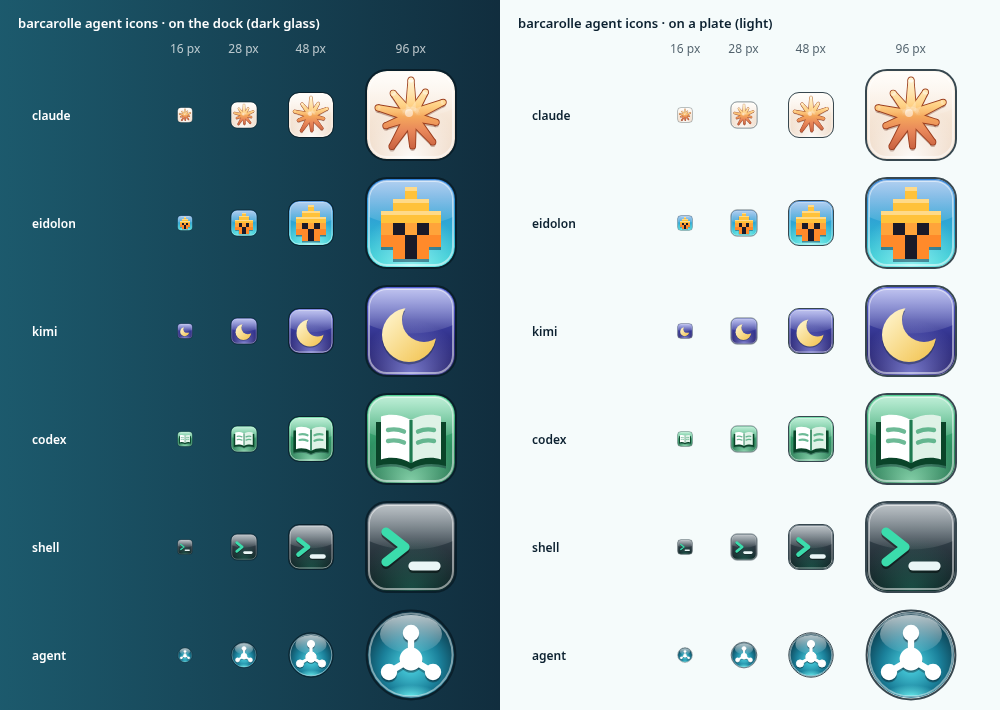
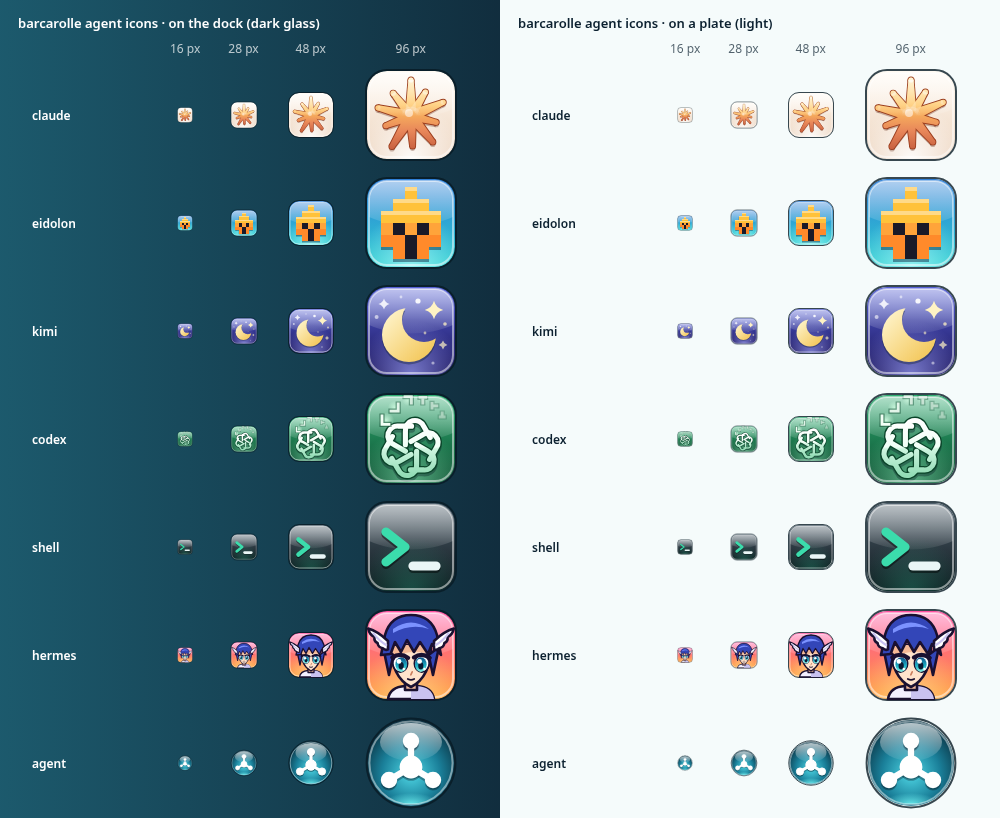
barcarolle: the agent dock becomes a tray flyout; kimi gets a starfield, codex the blossom with enchanting runes, hermes a winged anime messenger

diff --git a/song/songbook/barcarolle/design/mock.html b/song/songbook/barcarolle/design/mock.html
@@ -177,17 +177,11 @@ svg.i { display: block; }
 .s-done::after { content: ""; position: absolute; left: 4px; top: 2px; width: 3px; height: 6px; border: solid var(--ink); border-width: 0 1.5px 1.5px 0; transform: rotate(45deg); }
 .s-awaiting::after { content: ""; position: absolute; left: 3.5px; top: 3px; width: 1.5px; height: 6px; background: var(--ink); box-shadow: 3px 0 0 var(--ink); }
 
-/* ---------- sidebar dock ---------- */
-.dock { left: 1568px; top: 0; width: 352px; height: 1040px;
-  background: var(--streaks), linear-gradient(90deg, rgba(42,163,184,.30), rgba(12,33,48,.50));
-  -webkit-backdrop-filter: blur(12px) saturate(1.3); backdrop-filter: blur(12px) saturate(1.3);
-  box-shadow: inset 1px 0 0 rgba(255,255,255,.35), -1px 0 0 rgba(12,33,48,.6); }
-.dock .hdr { left: 12px; top: 12px; width: 328px; height: 34px; border-radius: 4px; background: rgba(12,33,48,.86); display: flex; align-items: center; padding: 0 10px; font: 600 13px var(--ui); gap: 8px;
-  box-shadow: inset 0 1px 0 rgba(255,255,255,.22), 0 0 0 1px rgba(12,33,48,.85); }
-.dock .hdr .act { margin-left: auto; display: flex; gap: 10px; opacity: .9; font-weight: 400; }
-.card { left: 12px; top: 56px; width: 328px; border-radius: 6px; overflow: hidden; box-shadow: 0 0 0 1px rgba(12,33,48,.6), 0 1px 3px rgba(0,0,0,.04); }
-.card .band { height: 20px; background: linear-gradient(180deg, rgba(255,255,255,.35), rgba(255,255,255,0) 60%), var(--frame); color: #fff; font: 600 11px/20px var(--ui); padding: 0 10px; text-shadow: 0 1px 1px rgba(0,0,0,.45); }
-.card .plate { border: 0; border-radius: 0; padding: 4px 0 6px; }
+/* ---------- agent flyout ---------- */
+.agentfly { left: 1564px; bottom: 46px; width: 352px; }
+.agentfly .hd { height: 26px; padding: 0 8px; display: flex; align-items: center; gap: 6px; font-weight: 600; border-radius: 2px 2px 0 0; }
+.agentfly .hd .act { margin-left: auto; display: flex; gap: 10px; opacity: .9; font-weight: 400; }
+.agentfly .plate { border-radius: 0 0 2px 2px; padding: 2px 0 4px; }
 .grp { height: 26px; display: flex; align-items: center; gap: 8px; padding: 0 8px; margin-top: 2px; cursor: pointer; }
 .grp:hover { background: rgba(37,187,207,.10); }
 .grp b { font-weight: 600; }
@@ -214,13 +208,13 @@ svg.i { display: block; }
 .legend span { display: inline-flex; align-items: center; gap: 5px; }
 
 /* ---------- flyouts ---------- */
-.ricemenu { left: 1455px; bottom: 46px; width: 248px; }
+.ricemenu { left: 1303px; bottom: 46px; width: 248px; }
 .ricemenu .hd { height: 26px; padding: 0 8px; display: flex; align-items: center; font-weight: 600; border-radius: 2px 2px 0 0; }
 .ricemenu .plate { border-radius: 0 0 2px 2px; padding: 2px 0 0; }
 .ricemenu .check { width: 12px; text-align: center; color: var(--ink); font-weight: 700; }
 .ricemenu .foot { margin-top: 4px; padding: 5px 8px; background: rgba(37,187,207,.10); font-size: 11px; color: var(--ink-2); border-top: 1px solid rgba(12,33,48,.15); }
 .ricemenu .tag { margin-left: auto; font-size: 10px; color: var(--ink-2); }
-.vol { left: 1771px; bottom: 46px; width: 84px; }
+.vol { left: 1207px; bottom: 46px; width: 84px; }
 .vol .plate { height: 288px; display: flex; flex-direction: column; align-items: center; padding-top: 8px; }
 .vol .dev { font-size: 11px; color: var(--ink); width: 70px; text-align: center; white-space: nowrap; overflow: hidden; text-overflow: ellipsis; border-bottom: 1px solid rgba(12,33,48,.15); padding-bottom: 6px; }
 .vol .slider { position: relative; width: 6px; height: 150px; margin: 14px 0 8px; border-radius: 3px; background: rgba(12,33,48,.20); box-shadow: inset 0 0 0 1px rgba(12,33,48,.25); }
@@ -233,20 +227,20 @@ svg.i { display: block; }
 .vol .foot a:hover { text-decoration: underline; }
 
 /* ---------- balloon ---------- */
-.balloon { left: 1572px; top: 528px; width: 340px; padding: 10px 12px 12px; border-radius: 6px; color: var(--ink);
+.balloon { left: 1571px; top: 404px; width: 340px; padding: 10px 12px 12px; border-radius: 6px; color: var(--ink);
   background: linear-gradient(180deg, #f5fbfb, #e5f5f7); border: 1px solid var(--ink-3);
   box-shadow: 0 1px 2px rgba(0,0,0,.10), 0 3px 8px rgba(0,0,0,.06), 0 8px 18px rgba(0,0,0,.03); }
-.balloon .tail { position: absolute; left: 185px; bottom: -10px; width: 16px; height: 10px; }
+.balloon .tail { position: absolute; left: 162px; bottom: -10px; width: 16px; height: 10px; }
 .balloon .t { display: flex; align-items: center; gap: 8px; font: 600 13px var(--ui); }
 .balloon .x { margin-left: auto; width: 16px; height: 16px; display: grid; place-items: center; color: var(--ink-2); font-size: 13px; cursor: pointer; }
 .balloon .m { font-size: 11px; color: var(--ink-2); margin: 1px 0 6px 24px; }
 .balloon .b { font-size: 12px; margin-left: 24px; }
 .balloon .b code { font: 11px var(--mono); background: rgba(12,33,48,.06); padding: 0 3px; border-radius: 2px; }
 .balloon .acts { margin: 10px 0 0 24px; display: flex; gap: 8px; }
-.leader { left: 1765px; top: 650px; width: 0; height: 392px; border-left: 1px dashed rgba(255,255,255,.55); }
+.leader { left: 1741px; top: 520px; width: 0; height: 522px; border-left: 1px dashed rgba(255,255,255,.55); }
 
 /* ---------- gadget ---------- */
-.gadget { left: 1350px; top: 24px; width: 196px; height: 150px; }
+.gadget { left: 1700px; top: 24px; width: 196px; height: 150px; }
 
 /* ---------- lock panel + notes ---------- */
 .lockcard { left: 462px; top: 40px; width: 864px; }
@@ -338,19 +332,6 @@ svg.i { display: block; }
     </g>
   </svg>
 
-  <!-- sidebar: terminal / agent dock -->
-  <div class="abs dock" id="dock">
-    <div class="abs hdr">
-      <svg width="16" height="16" viewBox="0 0 16 16"><rect x="1.5" y="4.5" width="10" height="9" rx="1.5" fill="none" stroke="#fff" stroke-opacity=".7"/><rect x="4.5" y="1.5" width="10" height="9" rx="1.5" fill="#0c2130" stroke="#fff"/><path d="M6.5 4.5l2 1.5-2 1.5" fill="none" stroke="#3bdcac" stroke-width="1.3"/></svg>
-      Sessions · 2 working · 1 awaiting
-      <span class="act"><span title="recheck">↻</span><span title="close">×</span></span>
-    </div>
-    <div class="abs card">
-      <div class="band">Agents by workspace</div>
-      <div class="plate" id="sessions"></div>
-    </div>
-  </div>
-
   <!-- Start menu -->
   <div class="abs start rim" id="start">
     <div class="abs tile"><div>
@@ -420,6 +401,16 @@ svg.i { display: block; }
 
   <!-- balloon -->
   <div class="abs leader"></div>
+
+  <!-- agent flyout, over the agents tray button -->
+  <div class="abs agentfly rim" id="dock">
+    <div class="hd deep">
+      <svg width="16" height="16" viewBox="0 0 16 16"><rect x="1.5" y="4.5" width="10" height="9" rx="1.5" fill="none" stroke="#fff" stroke-opacity=".7"/><rect x="4.5" y="1.5" width="10" height="9" rx="1.5" fill="#0c2130" stroke="#fff"/><path d="M6.5 4.5l2 1.5-2 1.5" fill="none" stroke="#3bdcac" stroke-width="1.3"/></svg>
+      Sessions · 2 working · 1 awaiting
+      <span class="act"><span title="recheck">↻</span></span>
+    </div>
+    <div class="plate" id="sessions"></div>
+  </div>
   <div class="abs balloon" id="balloon">
     <svg class="tail" viewBox="0 0 16 10"><path d="M0 0h16L8 10z" fill="#e5f5f7"/><path d="M0 0L8 10 16 0" fill="none" stroke="rgba(12,33,48,.55)"/></svg>
     <div class="t">
@@ -528,8 +519,8 @@ document.getElementById("programs").innerHTML = programs.map((p, i) => p === nul
 
 const groups = [
   { ws: 3, wash: "working", apps: ["code", "term", "files"], label: "Workspace 3", mon: "DP-1", rows: [
-    ["working", "claude · barcarolle board", "Edit · mock.html", "~/worktrees/dxflake-barcarolle", 54],
-    ["working", "claude · subagent: contrast pass", "Bash · pillow", "~/aoide", 22, true],
+    ["working", "hermes · barcarolle board", "Edit · mock.html", "~/worktrees/dxflake-barcarolle", 54],
+    ["working", "hermes · subagent: contrast pass", "Bash · pillow", "~/aoide", 22, true],
     ["done", "codex · livery lint", "finished 4m ago", "~/aoide", 31] ] },
   { ws: 7, wash: "awaiting", apps: ["term", "web"], label: "Workspace 7", mon: "DP-1", rows: [
     ["awaiting", "claude · flake check", "asking · Bash", "~/dxflake", 72, false, "y"] ] },
@@ -537,7 +528,7 @@ const groups = [
     ["idle", "kimi · notes sweep", "idle 12m", "~/Magi", 18],
     ["stopped", "eidolon · harnox bump", "stopped · exit 0", "~/harnox", 40] ] },
 ];
-const kinds = ["claude", "eidolon", "kimi", "codex", "shell"];
+const kinds = ["claude", "eidolon", "kimi", "codex", "shell", "hermes"];
 const agentIcon = (name, state, dim) => {
   const k = name.split(" · ")[0];
   return `<span class="ico"${dim ? ' style="opacity:.6"' : ""}><img src="../icons/agents/${kinds.includes(k) ? k : "agent"}.svg" width="28" height="28" alt="${k}"><span class="st s-${state}"></span></span>`;

diff --git a/song/songbook/barcarolle/design/intent.md b/song/songbook/barcarolle/design/intent.md
@@ -1,9 +1,9 @@
 # barcarolle — intent
 
 Windows 7 Aero, rebuilt as an AoideOS rice: a glass superbar along the bottom,
-the Start orb and its two-column menu, white-plate flyouts and balloons, a
-Vista-lineage sidebar, and a CPU-meter gadget, all over a teal Frutiger Aero
-wallpaper. The one structural change from Windows 7: the grouped taskbar
+the Start orb and its two-column menu, white-plate flyouts and balloons
+(the agent sessions among them), and a CPU-meter gadget, all over a teal
+Frutiger Aero wallpaper. The one structural change from Windows 7: the grouped taskbar
 buttons are **Hyprland workspaces**, not applications.
 
 The board is `mock.html` (rendered to `mock.png`). It holds every summoned
@@ -16,7 +16,7 @@ Glass is a frame, content is a plate, light comes from above.
 
 - **Deep glass** (`bar.bg`) is the only glass that carries text, always white.
 - **Colorization** (`window.border`) tints every frame — Start rim, flyout
-  rims, peek frame, sidebar column, active window border — and never carries
+  rims, peek frame, active window border — and never carries
   text.
 - **Plates** (`notif.bg` at 0.97, 1px ink-0.55 border) carry every list,
   grid, paragraph and field; ink text on them.
@@ -28,17 +28,17 @@ Glass is a frame, content is a plate, light comes from above.
 ## Layout (DP-1, 1920×1080)
 
 ```
-┌───────────────────────────────────────────────────────────────┬──────────────┐
-│                                           [CPU/RAM gadget]    │ Sidebar      │
-│                                                               │  Sessions    │
-│                                                               │  by workspace│
-│ ┌Start──────────┐                                             │  + New term  │
-│ │ pinned │ name  │      ┌Peek ws7┐            ┌RICE menu┐ ┌balloon────────┐ │
-│ │ recent │ places│      │ rows   │            │ songs   │ │ approve/deny  │ │
-│ │ All ▸  │       │      └────────┘            │ drafts  │ └──────┬────────┘ │
-│ │ search │ Lock ▸│                            │         │  ┊  ┌vol┐         │
-├─┴───────┴───────┴──────────────────────────────────────────────────────────────┤
-│◉ [1][2][3][4][5][6][7][8] ┆ mag scr +              Stage▾ ^ ⧉ ⚑ ▭ ◁)) 3:42 ▐│
+┌────────────────────────────────────────────────────────────────────────────────┐
+│                                                         [CPU/RAM gadget]       │
+│                                                                                │
+│                                                         ┌balloon────────────┐  │
+│ ┌Start──────────┐                                       │ approve/deny      │  │
+│ │ pinned │ name  │                                      └──────┬────────────┘  │
+│ │ recent │ places│                  ┌vol┐ ┌RICE menu┐ ┌Agents──┊────────────┐  │
+│ │ All ▸  │       │   ┌Peek ws7┐     │   │ │ songs   │ │ sessions by ws      │  │
+│ │ search │ Lock ▸│   │ rows   │     │   │ │ drafts  │ │ + New terminal      │  │
+├─┴───────┴───────┴──────────────────────────────────────────────┊───────────────┤
+│◉ [1][2][3][4][5][6][7][8] ┆ mag scr +                 Stage▾ ^ ⧉ ⚑ ▭ ◁)) 3:42 ▐│
 └────────────────────────────────────────────────────────────────────────────────┘
 ```
 
@@ -59,11 +59,14 @@ Glass is a frame, content is a plate, light comes from above.
   protruding above the frame, the name, places, Terminal, Settings; the power
   split is **Lock** with a ▸ for Switch user / Log off / Sleep / Hibernate /
   Restart / Shut down.
-- **Sidebar dock** (right, 352px, summoned): header chip with counts, one
-  gadget card grouping sessions by workspace (mini workspace button + label;
-  click jumps), rows with the agent's icon (28px) wearing its state orb as an
-  overlay, agent · title, tool and cwd tail, and a context meter. Subagents indent. "Elsewhere" holds sessions with no
-  window. `+ New terminal` at the foot.
+- **Agent flyout** (352px, from the agents tray button `⧉`, whose badge
+  counts the awaiting sessions): a Win7 notification-area flyout anchored
+  above its button at the bottom right, one flyout open at a time like the
+  rest. Rim + deep header with the counts and a recheck, then one plate of
+  sessions grouped by workspace (mini workspace button + label; click jumps),
+  rows with the agent's icon (28px) wearing its state orb as an overlay,
+  agent · title, tool and cwd tail, and a context meter. Subagents indent.
+  "Elsewhere" holds sessions with no window. `+ New terminal` at the foot.
 - **RICE cell + menu**: the cell shows the mode glyph and word (`Stage`) with
   a chevron. The menu: header `Rice · <song> · <mode>`, songs with the
   current one ticked (staged / declared tags), `Back to declarative ·
@@ -71,10 +74,12 @@ Glass is a frame, content is a plate, light comes from above.
   draft`.
 - **Tray flyout**: the Win7 narrow volume flyout (device, slider, percent,
   mute, `Mixer` footer).
-- **Balloon**: white plate with a tail on the flag; a summons shows Approve /
-  Deny pills.
+- **Balloon**: white plate whose tail points at the tray icon it belongs
+  to; an agent summons points at the agents button and shows Approve / Deny
+  pills.
 - **Gadget**: CPU (110px) and RAM (70px) dials, chrome bezels, white needles,
-  readouts on dark chips.
+  readouts on dark chips; sits free on the desktop, Win7-style (top right on
+  the board).
 - **Lock** (panel in the board, 0.45 scale): the logon picture with its baked
   person tile, the `$USER` label at −21% and the 400×60 hyprlock field at
   −26% below centre. Nothing else; the song supplies only the picture and
@@ -94,26 +99,29 @@ contact sheet `agent-icons.png`. One family: a 48×48 glass tile (the
 fallback is an orb), a vertical body gradient in the kind's hue, a bottom
 bounce glow, a curved hard-edged gloss over the top half, a white inner rim
 and a dark outer rim. The mark sits above the gloss with a 1.2px dark drop so
-it holds at 16px. Two kinds wear their own marks, drawn here: claude after
-Anthropic's Claude spark (a trademark, used on the user's own desktop by the
-user's ruling) and eidolon after its own helmet figure (the user's project).
-kimi, codex, shell and agent are original; the hue and the idea hint at the
-agent, no vendor logo is drawn or traced.
+it holds at 16px. Three kinds wear their own marks, drawn here from memory
+as plain geometry: claude after Anthropic's Claude spark and codex after the
+OpenAI blossom (trademarks, used on the user's own desktop by the user's
+ruling), and eidolon after its own helmet figure (the user's project). kimi
+keeps an original crescent as a stand-in for Moonshot's mark. shell, hermes
+and agent are original.
 
 | kind | mark | body (top → bottom) | mark colour |
 |---|---|---|---|
 | claude | Claude's spark: ten tapered rays of uneven length and width with rounded tips around a small centre, as polished glass: a terracotta rim, a hard-stop bevel over the top half, a warm glow behind the centre | cream `#fffaf2` → `#ecd3bd` | golden amber `#ffd877` → `#ffc35e` → coral `#e8875a` → terracotta `#c2593a`, rim `#9a3d1e`, glow `#ffd27a` |
 | eidolon | eidolon's helmet figure, a Corinthian helmet front-on in hard pixel blocks on a 6-unit grid (2px at 16): crest, crown, brow, eye slit split by the nasal, two cheek guards | the wordmark's blue `#2f7fd8` → cyan `#2ecfcf` | yellow `#ffc23a` → amber `#ffa43a` → orange `#ff8a2a`, interior `#1a1a28` |
-| kimi | a crescent moon | indigo `#5560d6` → night `#170f52` | pale gold `#fff8d6` → `#f2c14a` |
-| codex | an open bound book | mint `#53d394` → green `#12603d` | white pages, green cover |
+| kimi | a crescent moon (stand-in for Moonshot's mark) in a sparse starfield: three 4-point twinkles and a scatter of dots of uneven size and brightness | indigo `#5560d6` → night `#170f52` | moon pale gold `#fff8d6` → `#f2c14a`; stars pale gold `#fff3c4` and white |
+| codex | the OpenAI blossom, six rounded links around a hexagonal eye, in glossy glass; runes drift up off it in an arc, shrinking and fading as they rise (enchanting-table particles: blocky strokes in the manner of the Standard Galactic Alphabet, drawn as paths) | green `#2fae72` → `#0c4a2e` | blossom white → `#f0fff6`, hard stop, `#cdf5df` → `#93dcb6`, rim `#0a4429`; runes `#f2fff6` with a pale-green halo `#d4ffe4` and a dark-green backing stroke |
 | shell | the `>_` prompt | graphite `#4e5f6b` → `#0b1419` | base0B `>`, plate-white `_` |
+| hermes | an original 90s-anime messenger, a cel-shaded bust: spiky blue hair over the brow, big glossy cyan eyes with two highlights, small white wings at the temples, a bold dark outline and two-tone flat shading | sunset magenta `#ff4fa0` → orange `#ff9a3c` | hair `#3346b8` / `#7b92ff`, skin `#ffe3cc` / `#f5b996`, outline `#1a1030`, wings white |
 | agent | a glass orb holding a node and three satellites | base0C `#4fd8e6` → `#0a3242` | white |
 
 claude's golden spark sits on a cream tile: on a gold tile the rays sink
 into the ground at 16px, on cream they hold. kimi sits on indigo so its tile
-never reads as eidolon's blue at 16px. An unknown kind takes `agent`.
-Gradient ids are prefixed with the kind, so the six inline together without
-collision.
+never reads as eidolon's blue at 16px. At 16px only the brightest kimi
+stars survive and the codex runes thin to specks; the crescent and the
+blossom carry the read. An unknown kind takes `agent`. Gradient ids are
+prefixed with the kind, so all seven inline together without collision.
 
 ## Palette tokens used
 
@@ -141,34 +149,30 @@ Consolas → Noto Sans Mono.
 - **Glass**: CSS `backdrop-filter` blur + a streak layer stands in for
   Hyprland blur and hyprglass refraction. The real strip is planned as a
   baked frost (no compositor rule); popups get `blur_popups`; Start and the
-  dock get hyprglass.
-- **Icons**: all drawn here, original; the real bar resolves app icons from
-  the icon theme.
+  agent flyout get hyprglass.
+- **Icons**: all drawn here; the real bar resolves app icons from the icon
+  theme. Agent icons: see above.
 - **Data**: workspaces, sessions, songs and drafts are hard-coded sample
   data. Nothing reads `desktop.json`, `sessions.json` or `mode.json`.
-- **Board-only placement**: every surface is open at once. The peek is
-  shifted right to clear the open Start menu; the balloon is lifted above
-  the open flyouts with a dashed leader down to the flag it belongs to; the
-  gadget sits left of the open sidebar instead of under it.
+- **Board-only placement**: every surface is open at once, though only one
+  flyout opens at a time. The peek is shifted right to clear the open Start
+  menu; the agent flyout sits over its button, so the RICE menu and the
+  volume flyout are shifted left of it; the balloon is lifted above the open
+  agent flyout with a dashed leader down to the agents button.
 - Not shown: the HDMI-A-1 compact bar, jump lists, chevron overflow grid,
   network and calendar flyouts, Action Center, power screen, window frames
   and terminals.
 
 ## Open questions
 
-1. **Sidebar vs flyouts**: the dock is full height on the right, so every
-   tray flyout and the balloon land on top of it. Hide the dock when a tray
-   flyout opens (current spec), or end the dock above the tray area?
-2. **Gadget home**: desktop at top-right (collides with the open dock), or
-   docked into the sidebar column like Vista when the sidebar is shown?
-3. **"awaiting" vs "asking"**: display the canonical word, or map it to
+1. **"awaiting" vs "asking"**: display the canonical word, or map it to
    "asking" in the UI only?
-4. **Start search**: the placeholder says "programs and files", but only a
+2. **Start search**: the placeholder says "programs and files", but only a
    programs search is planned. Rename it, or order a file-search bridge?
-5. **Orb size**: kept inside the 40px bar (Ø36). Win7's orb overhangs the
+3. **Orb size**: kept inside the 40px bar (Ø36). Win7's orb overhangs the
    taskbar; overhang needs a taller surface than the exclusive zone.
-6. **Power split**: Lock as the default with Shut down in the ▸ menu — keep
+4. **Power split**: Lock as the default with Shut down in the ▸ menu — keep
    Restart/Shut down armed (second click) as specced?
-7. **Lock name legibility**: the bare `$USER` label sits on bright art just
+5. **Lock name legibility**: the bare `$USER` label sits on bright art just
    under the tile; hyprlock's variables-only dress cannot add a plate, so any
    name band must be baked into the picture.

diff --git a/song/songbook/barcarolle/design/ASSETS.md b/song/songbook/barcarolle/design/ASSETS.md
@@ -15,11 +15,16 @@
   each differs from its closest original by RMSE ≈ 0.11, so expect a re-grade
   or re-crop. The source match is by image comparison against the zip's
   contents; each matched its listed original more closely than any other.
-- `../icons/agents/{kimi,codex,shell,agent}.svg` are original drawings made
-  here for this song; no vendor logo is reproduced, traced or imitated.
-- `../icons/agents/claude.svg` is drawn here, from memory as plain vector
-  geometry, after Anthropic's Claude spark mark. The mark is Anthropic's
-  trademark; it is used on the user's own desktop by the user's ruling.
+- `../icons/agents/{kimi,shell,hermes,agent}.svg` are original drawings
+  made here for this song; no vendor logo is reproduced, traced or imitated.
+  kimi's crescent is a stand-in, not Moonshot's mark. hermes is an original
+  character, not any existing anime character.
+- `../icons/agents/claude.svg` and `../icons/agents/codex.svg` are drawn
+  here, from memory as plain vector geometry, after Anthropic's Claude spark
+  and the OpenAI blossom. Both marks are their owners' trademarks; they are
+  used on the user's own desktop by the user's ruling. The codex runes are
+  stroke paths drawn here in the manner of the Standard Galactic Alphabet;
+  no font is used.
 - `../icons/agents/eidolon.svg` is drawn here after eidolon's own mark (the
   helmet figure and the wordmark's colours); eidolon is the user's own
   project.
